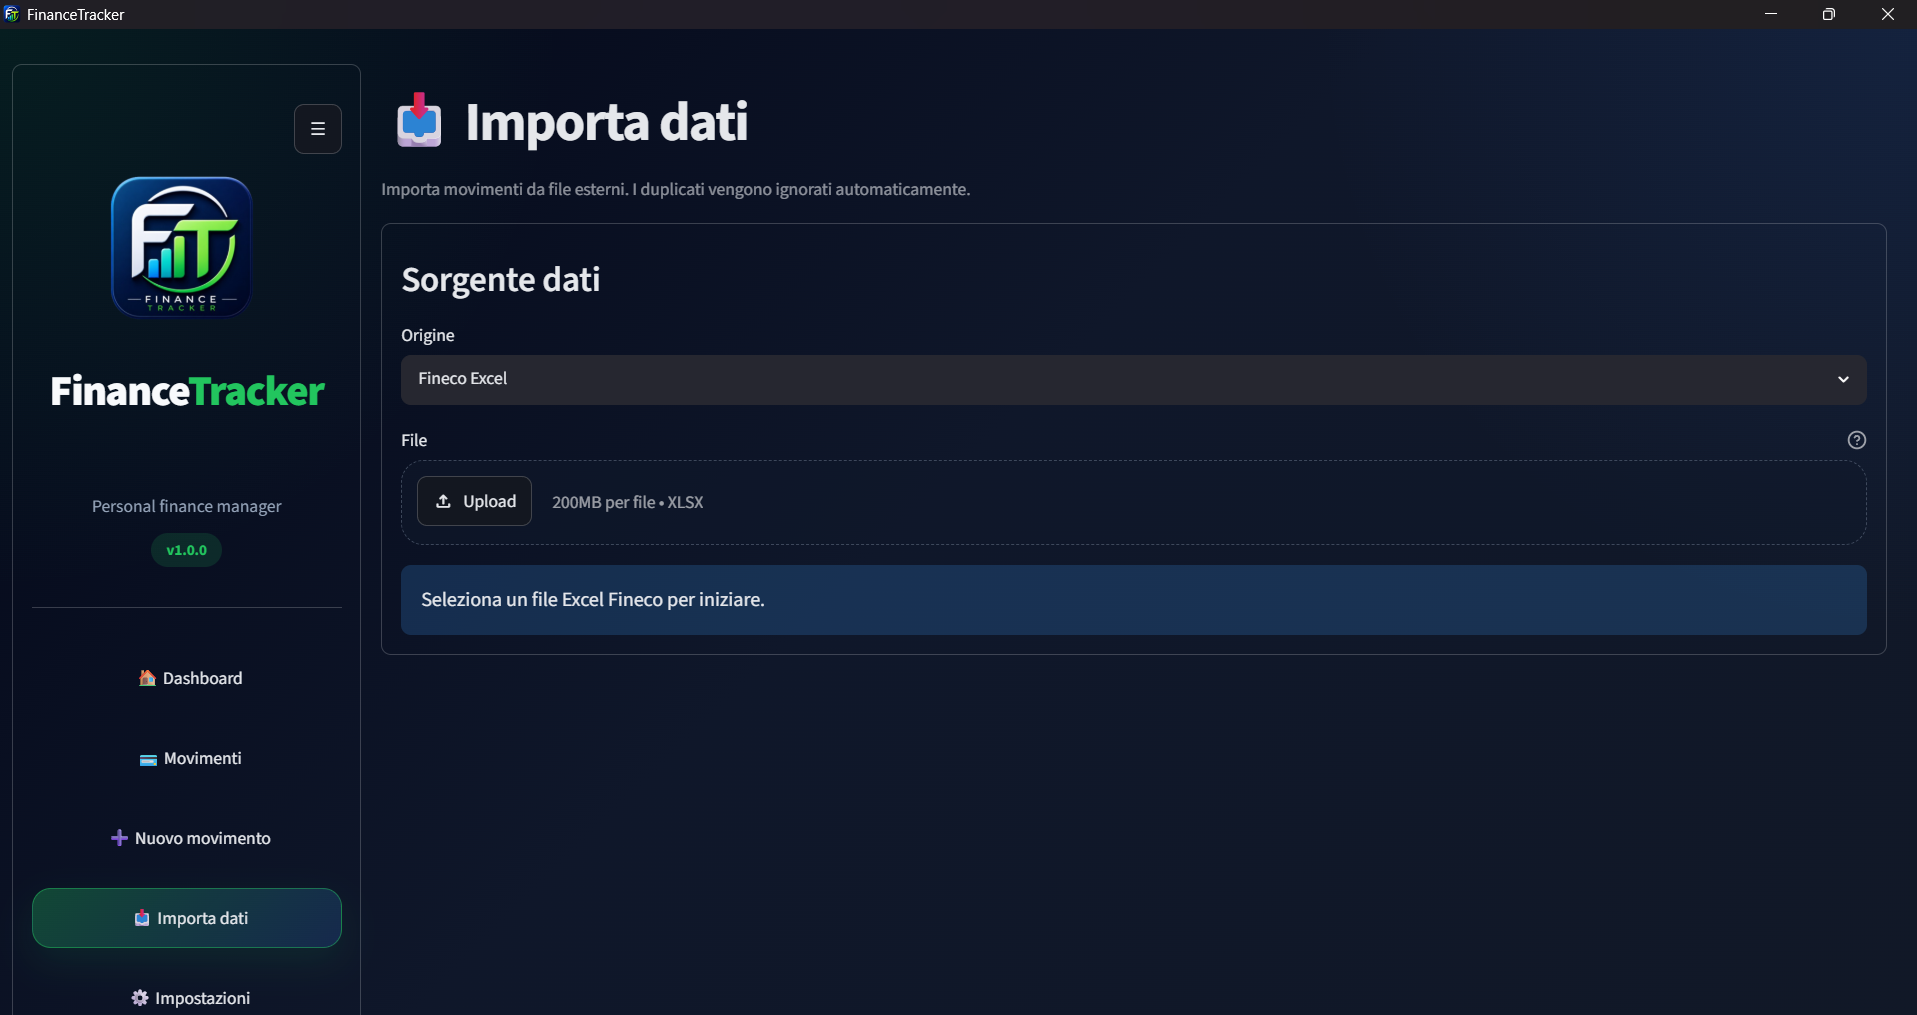
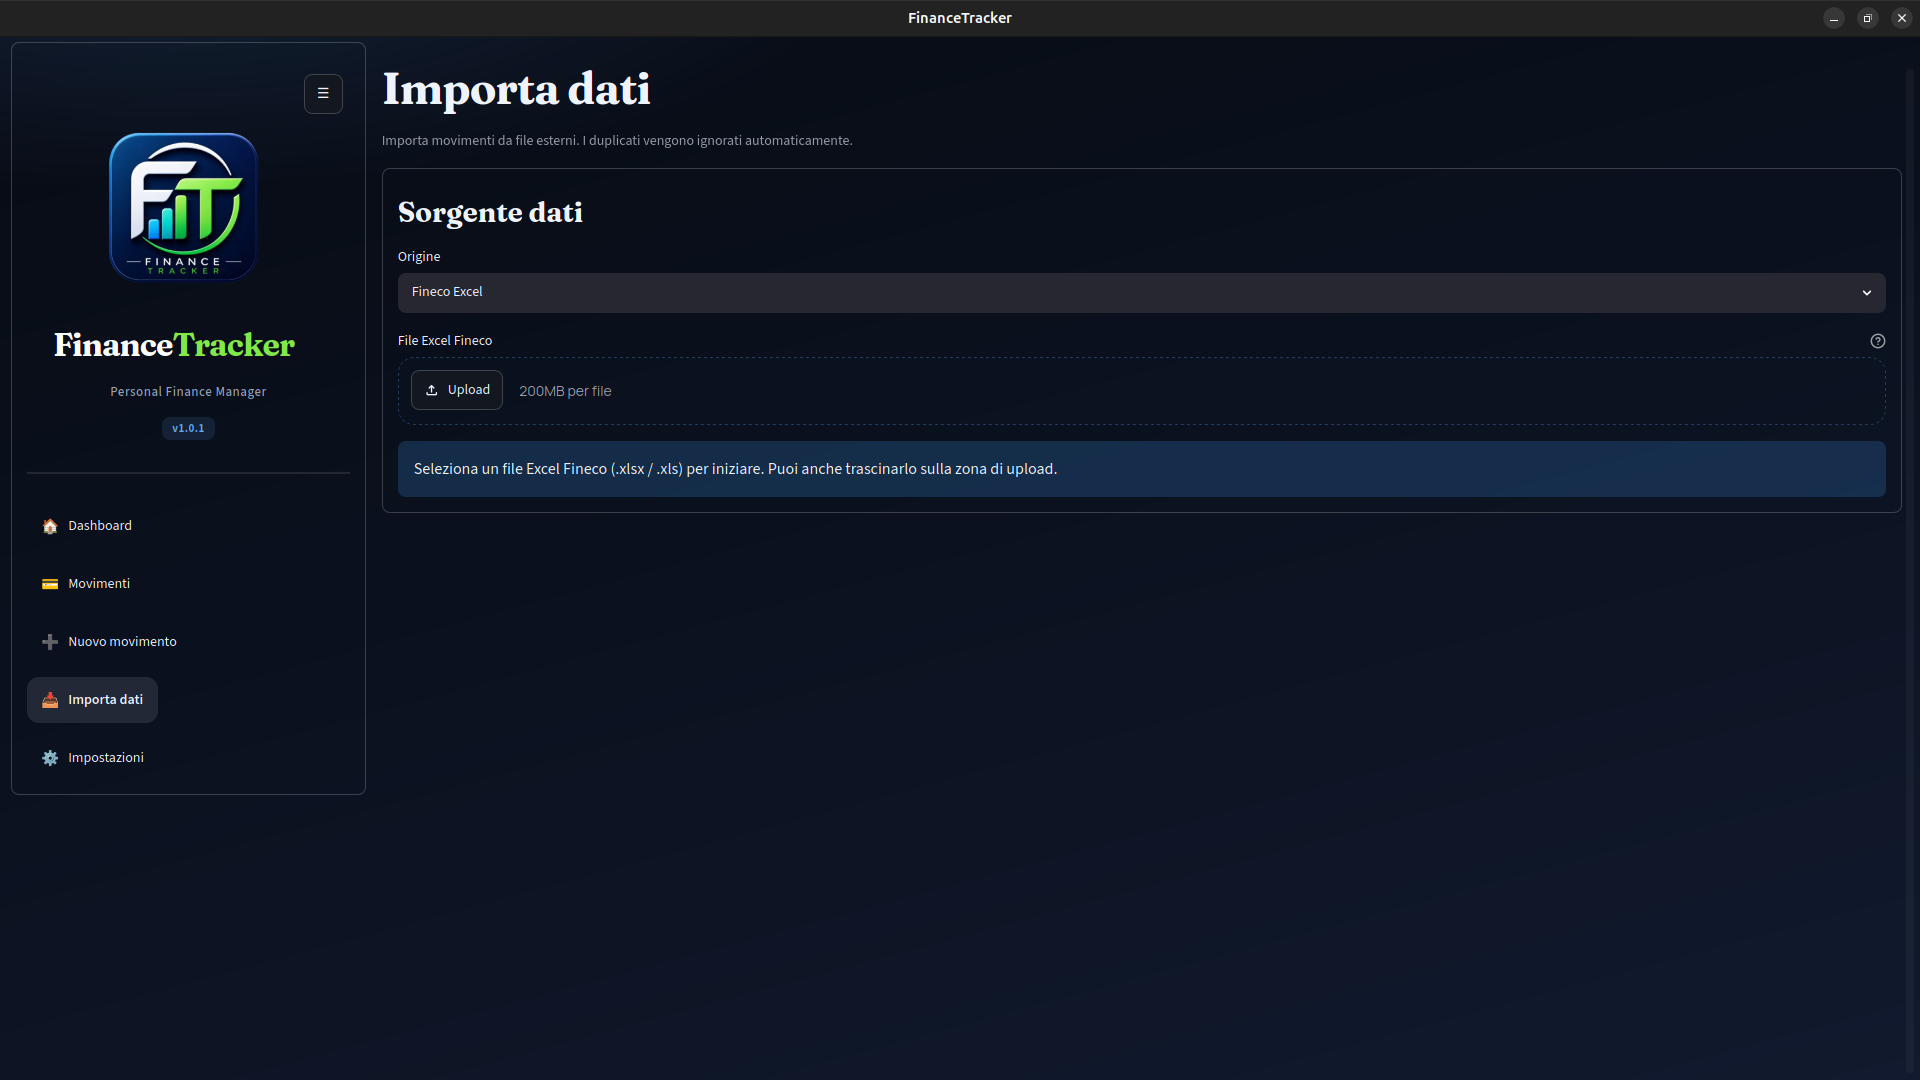
Bump version to 1.1.0. Update changelog adn readme

diff --git a/CHANGELOG.md b/CHANGELOG.md
@@ -1,5 +1,25 @@
 # Changelog
 
+## v1.1.0
+
+### Funzionalità
+- Backup completo e ripristino da file zip
+- Colori categoria persistenti e unici
+- Navigazione estratta in componente dedicato
+
+### Correzioni
+- Gestione date più robusta (gli inserimenti manuali non rompono più ordinamento/filtri)
+- Import senza data operazione non genera più errore
+- Import Fineco: importo `0` non classificato come uscita
+- Upload file su Linux (WebKit): il dialog di sistema mostra correttamente i file in Download
+- Moduli mancanti nel build PyInstaller (navigazione / components)
+
+### Interfaccia
+- UI aggiornata (tema, tipografia, card, colori verde/rosso per entrate/uscite)
+- Grafico a torta uscite con ombra e highlight al passaggio del mouse
+- Dashboard e liste movimenti più pulite
+
+
 ## v1.0.1
 
 Stesse funzionalità di v1.0.0.
